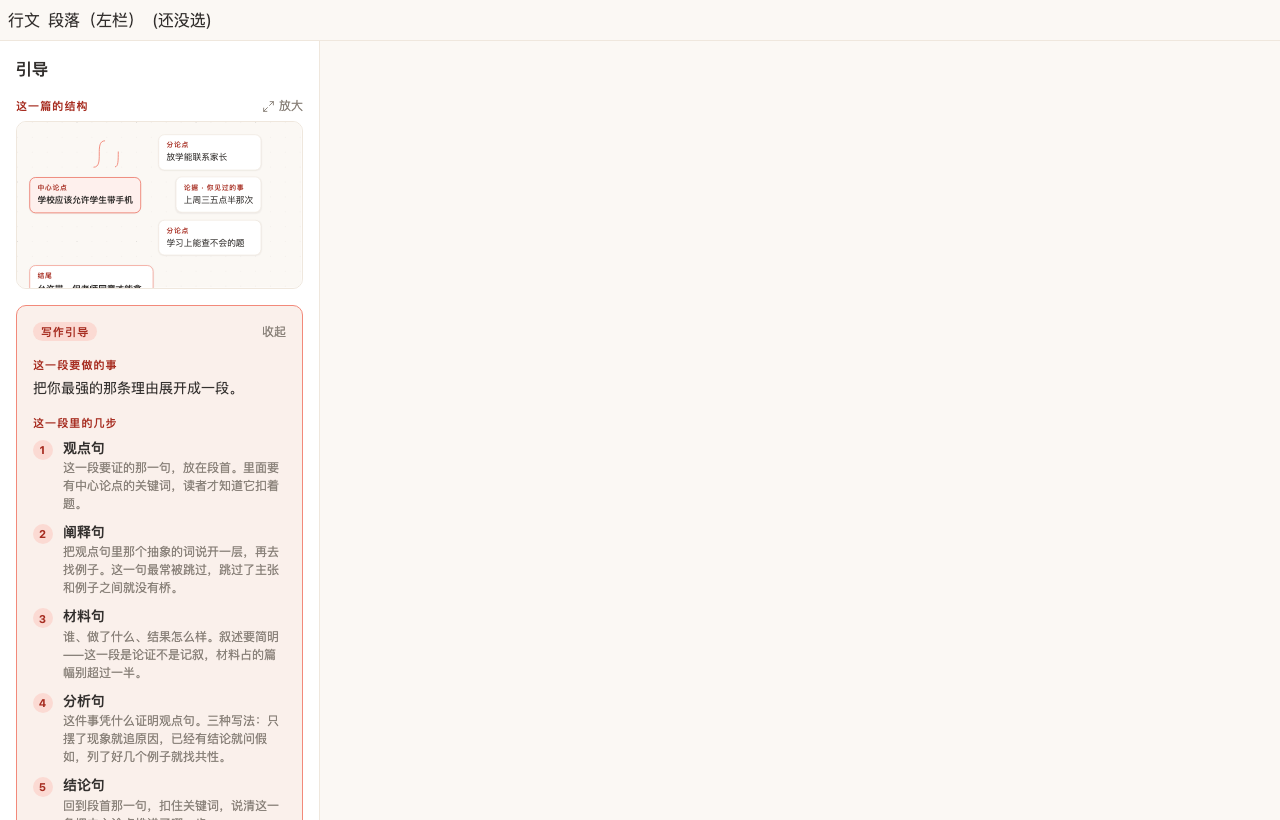
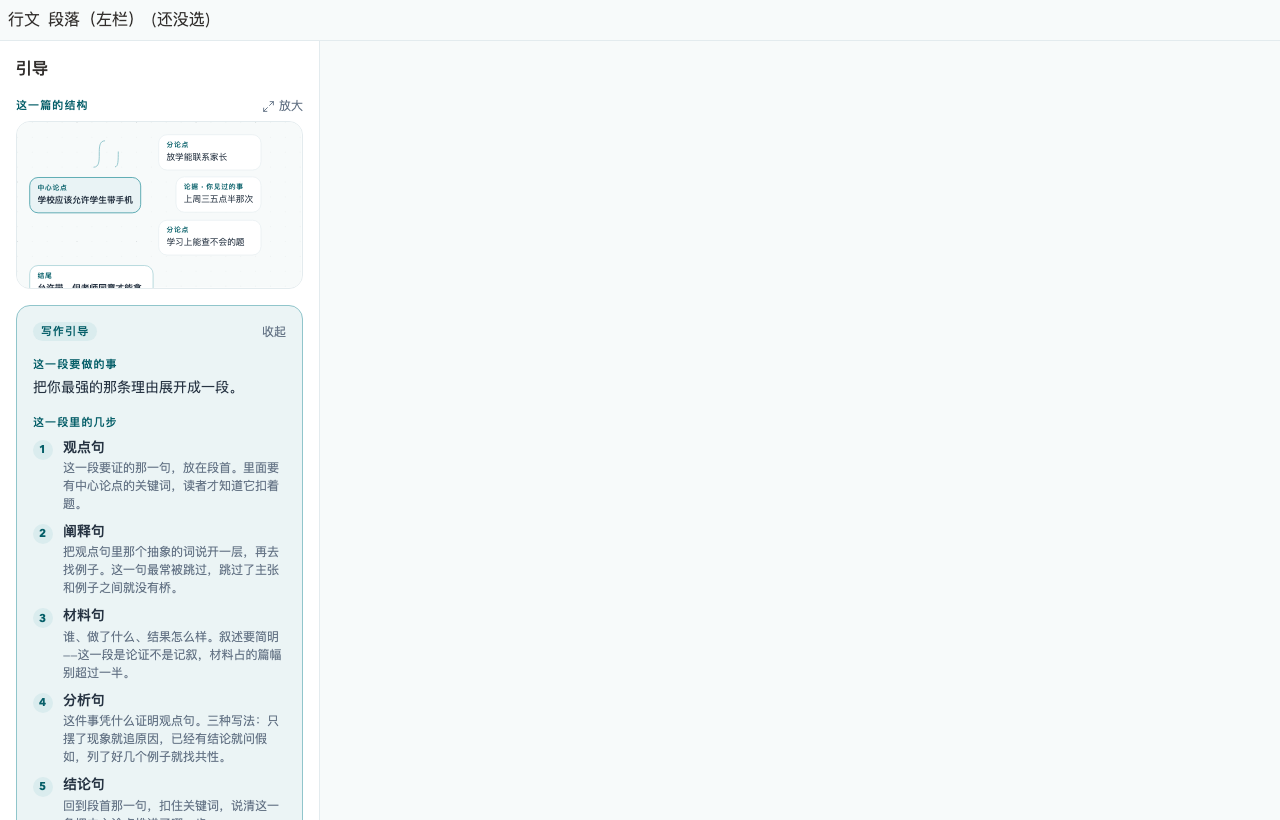
fix(lite-writing): 构思那一屏三栏并排之后的两处塌陷，在真浏览器里看出来的
给构思加上题目那一栏（意见 1）之后，那一屏第一次变成三栏。写了一个看图台
（planning.html / planning-harness.tsx）在真浏览器里看，两处塌陷：

## 「你的思路」竖着排了

那块浮在画布上的标签和旁边一句很长的提示同在一个 flex 行里。挤到装不下四个
字的时候，浏览器一个字一个字往下折 —— 屏幕上是竖着的「你 的 思 路」。
加了左边那一栏之后，这一块正好窄到触发它。`shrink-0 whitespace-nowrap`。

🚨 jsdom 测不出这一类：它量不出宽度，四个字在它眼里永远排得下。

## 那张图被挤到贴着右边缘

题目那一栏 280 → 240；对话和图那个分栏 44% → 48%。现在整张图连着深度 2 的
两张材料卡都在屏幕里，不用横向滚。折起题目那一栏之后更宽。

段落和成稿两页上少那 40px 看不出来；构思这一屏上，那 40px 是图的第四张卡。

## 看图台

`planning-harness` 只为一件事存在：**在真浏览器里看那三栏同时在屏幕上的
样子**。挤不挤、折完正文有没有变宽、图还剩多少地方 —— 这些是几何。
它假接口，不连后端、不要账号。三条用例：整道题在不在（钉题面的**末尾**，
截断时先没的就是它）、那一栏折得起来而且折完正文变宽、图上被摆错的那一条
她自己改得动。

顺带 `.shots/r4-guide-five-sentences.png` 重新截了一张：旧那张是 pro 的珊瑚红，
看图台补上 lite 的配色之后它才是学生真会看到的颜色。

diff --git a/apps/lite-web/e2e/harness/planning-harness.tsx b/apps/lite-web/e2e/harness/planning-harness.tsx
@@ -1,0 +1,144 @@
+import { useState } from "react";
+import { createRoot } from "react-dom/client";
+import { PlanningView } from "../../src/writings/PlanningView";
+import type { WritingOutlineItem } from "../../src/api/writingRoom";
+import type { LiteMessage } from "../../src/api/readingRoom";
+import type { Writing } from "../../src/api/writings";
+import "../../src/index.css";
+
+import "@/ui/themes/lite.css";
+import "../../src/learning/student-surfaces.css";
+import { LITE_ACCENT_PRESETS } from "@/ui/themes/lite";
+import type { CSSProperties } from "react";
+
+// 见 flow-harness.tsx 里那段：lite 的青色由 React 那一层作为内联样式给，
+// 光 import 一份 CSS 不够。不装上，看图台把每一屏都画成 pro 的珊瑚红。
+const LITE_ACCENT_STYLE = Object.fromEntries(
+  Object.entries(LITE_ACCENT_PRESETS[0]!.scale).map(([step, value]) => [`--mk-theme-accent-${step}`, value]),
+) as CSSProperties;
+
+/**
+ * 构思那一屏的看图台 —— 同事 2026-09-22 的意见 1 那一屏。
+ *
+ *	「选择题目进入写作后，无法看到完整的题目。想要看完整的题目还需要退出重新
+ *	  搜索，可能不利于学生**边看题目边构思**。」
+ *
+ * 2026-09-21 加的那一栏题目（PromptSidebar）只挂在段落和成稿两步上 ——
+ * 构思和行文各自在房间外壳之前 early-return，于是它们还挂着那行
+ * line-clamp-2 的小字。而「边看题目边构思」说的正是这一屏。
+ *
+ * 这个看图台只为一件事存在：**在真浏览器里看那一栏和对话、图三块同时在屏幕
+ * 上的样子**。三栏挤不挤、题目折起来之后正文有没有变宽、那张图还剩多少地方
+ * —— 这些是几何，jsdom 一个字都证明不了。
+ *
+ * 它假接口（照 flow-harness 的做法），所以不连后端、不要账号。
+ */
+
+const PROMPT =
+  "阅读下面的材料，根据要求写作。\n" +
+  "词语是表达思想情感的载体，也是展现社会生活变化的窗口。当前，世界之变、时代之变、" +
+  "历史之变正以前所未有的方式展开。青年是常为新的，在你的成长过程中，你对哪一个词语的" +
+  "理解发生了变化？这变化和你的成长有什么关系？\n" +
+  "请结合自身经历，写一篇文章。要求：选准角度，确定立意，明确文体，自拟标题；" +
+  "不要套作，不得抄袭；不少于800字。";
+
+const WRITING = {
+  id: "w1",
+  title: "成功这个词",
+  lang: "zh",
+  stage: "outline",
+  targetWords: 800,
+  structureKey: "",
+  setupAt: "2026-09-22T00:00:00Z",
+  origin: "here",
+  assignedPrompt: PROMPT,
+  status: "active",
+  createdAt: "2026-09-22T00:00:00Z",
+  updatedAt: "2026-09-22T00:00:00Z",
+  lastActivityAt: "2026-09-22T00:00:00Z",
+  finishedAt: null,
+  revisingAt: null,
+} as unknown as Writing;
+
+// 同事截图里那张图，照着摆 —— 包括被摆错的那一条（意见 3）。
+const SEED: WritingOutlineItem[] = [
+  { id: "t", text: "我想写「成功」这个词，我对它的理解发生了变化", role: "", kind: "thesis", depth: 0, position: 0 },
+  { id: "p1", text: "成功的定义太窄，成功的人就太少", role: "", kind: "point", depth: 1, position: 1 },
+  { id: "p2", text: "人人有自己的贡献，平凡尽责也是成功", role: "", kind: "point", depth: 1, position: 2 },
+  { id: "r1", text: "外卖员辛勤付出让人按时吃上饭，是成功", role: "", kind: "reference", depth: 2, position: 3 },
+  { id: "r2", text: "黑心商家哪怕赚很多钱，也是失败", role: "", kind: "reference", depth: 2, position: 4 },
+];
+
+const MESSAGES: LiteMessage[] = [
+  {
+    seq: 1,
+    role: "ai",
+    content:
+      "老师布置的这篇文章，是让你从成长经历里选一个词，讲讲你对它的理解怎么变了。我们先一起把要说的想清楚、排好顺序，再动笔。你最先想到的是哪个词？",
+    createdAt: "",
+  },
+  { seq: 2, role: "student", content: "我想写「成功」。小时候觉得成功就是考第一。", createdAt: "" },
+  {
+    seq: 3,
+    role: "ai",
+    content: "好，那这篇要让读者相信的是什么？用一句话说说你现在怎么看「成功」。",
+    createdAt: "",
+  },
+];
+
+// 假接口：这一屏只会打开场和回合两条路，以及保存提纲。
+const realFetch = window.fetch;
+window.fetch = (async (input: RequestInfo | URL, init?: RequestInit) => {
+  const url = String(typeof input === "string" ? input : input instanceof URL ? input.href : input.url);
+  if (url.includes("/opening")) {
+    return new Response(JSON.stringify({ reply: "" }), {
+      status: 200,
+      headers: { "content-type": "application/json" },
+    });
+  }
+  if (url.includes("/outline")) {
+    const body = JSON.parse(String(init?.body ?? "{}"));
+    (window as unknown as { lastPut?: unknown }).lastPut = body;
+    // 回一份按 kind 重算过深度的清单，和服务端一样。
+    const depths: Record<string, number> = {
+      thesis: 0, opening: 0, closing: 0,
+      point: 1, counter: 1, scene: 1, turn: 1, feeling: 1,
+      evidence: 2, reference: 2, reasoning: 2, rebuttal: 2, gap: 2, detail: 2,
+    };
+    const outline = (body.outline as { text: string; kind: string; source?: string }[]).map((n, i) => ({
+      id: `n${i}`,
+      text: n.text,
+      role: "",
+      kind: n.kind,
+      depth: depths[n.kind] ?? 1,
+      position: i,
+      source: n.source ?? "",
+    }));
+    return new Response(JSON.stringify({ outline }), {
+      status: 200,
+      headers: { "content-type": "application/json" },
+    });
+  }
+  return realFetch(input, init);
+}) as typeof window.fetch;
+
+function Harness() {
+  const [outline, setOutline] = useState(SEED);
+  const [messages, setMessages] = useState(MESSAGES);
+
+  return (
+    <div className="lite-student" style={{ ...LITE_ACCENT_STYLE, height: "100vh", background: "var(--mk-paper)" }}>
+      <PlanningView
+        writing={WRITING}
+        messages={messages}
+        outline={outline}
+        onMessages={setMessages}
+        onOutline={setOutline}
+        onDone={() => {}}
+        onBack={() => {}}
+      />
+    </div>
+  );
+}
+
+createRoot(document.getElementById("root")!).render(<Harness />);

diff --git a/apps/lite-web/e2e/harness/planning-harness.spec.ts b/apps/lite-web/e2e/harness/planning-harness.spec.ts
@@ -1,0 +1,74 @@
+import { test, expect } from "@playwright/test";
+
+/**
+ * 构思那一屏 —— 同事 2026-09-22 的意见 1。
+ *
+ *	「选择题目进入写作后，无法看到完整的题目。想要看完整的题目还需要退出重新
+ *	  搜索，可能不利于学生**边看题目边构思**。」
+ *
+ * 2026-09-21 加的那一栏题目只挂在段落和成稿两步上 —— 构思和行文各自在房间
+ * 外壳之前 early-return，于是它们还挂着那行 line-clamp-2 的小字，全文只在
+ * title 属性里。而「边看题目边构思」说的正是这一屏。
+ *
+ * 三栏挤不挤、折起来之后正文有没有变宽、那张图还剩多少地方 —— 这些是**几何**，
+ * jsdom 一个字都证明不了（AGENTS.md：UI 用真浏览器看）。
+ *
+ * 跑法（先起看图台）：
+ *   npx vite --config e2e/harness/vite.config.ts
+ *   npx playwright test e2e/harness/planning-harness.spec.ts --config e2e/harness/playwright.config.ts
+ */
+
+const OUT = "e2e/harness/.shots";
+
+test.beforeEach(async ({ page }) => {
+  await page.goto("/planning.html");
+});
+
+test("🚨 构思的时候，整道题和对话、图同时在屏幕上", async ({ page }) => {
+  const rail = page.getByRole("complementary", { name: "题目" });
+  await expect(rail).toBeVisible({ timeout: 20_000 });
+
+  // 整道题都在，不是两行小字加一个 title 属性。
+  // 钉的是**题面的末尾**：截断的时候先没的就是它。
+  await expect(rail).toContainText("请结合自身经历，写一篇文章");
+  await expect(rail).toContainText("不少于800字");
+  // 目标字数也在这一栏里。
+  await expect(rail).toContainText("目标字数 800");
+
+  // 对话和图同时在屏幕上 —— 三栏，不是题目挤掉其中一个。
+  await expect(page.getByText("写作构思")).toBeVisible();
+  await expect(page.getByText("你的思路")).toBeVisible();
+  await page.screenshot({ path: `${OUT}/r5-04-planning.png`, fullPage: true });
+});
+
+test("题目那一栏折得起来，折完正文变宽", async ({ page }) => {
+  const rail = page.getByRole("complementary", { name: "题目" });
+  await expect(rail).toBeVisible({ timeout: 20_000 });
+  const wide = (await rail.boundingBox())!.width;
+
+  await page.getByTitle("折起题目").click();
+  await expect(page.getByTitle("展开题目")).toBeVisible();
+  const narrow = (await rail.boundingBox())!.width;
+  expect(narrow, "折起来之后那一栏该窄下去").toBeLessThan(wide);
+  // 折起来之后它还说得出自己是什么。
+  await expect(rail).toContainText("题目");
+  await page.screenshot({ path: `${OUT}/r5-05-planning-folded.png`, fullPage: true });
+
+  await page.getByTitle("展开题目").click();
+  await expect(page.getByTitle("折起题目")).toBeVisible();
+});
+
+test("🚨 图上那条被摆错的，她自己改得动（意见 3）", async ({ page }) => {
+  // 「黑心商家哪怕赚很多钱，也是失败」现在摆在「论据 · 你找来的材料」里。
+  const label = page.getByRole("button", { name: "论据 · 你找来的材料", exact: true }).last();
+  await expect(label).toBeVisible({ timeout: 20_000 });
+  await label.click();
+
+  const menu = page.getByRole("menu");
+  await expect(menu).toBeVisible();
+  await menu.getByRole("menuitem", { name: /反方观点/ }).click();
+
+  // 改完当场看得见。
+  await expect(page.getByRole("button", { name: "反方观点", exact: true })).toBeVisible();
+  await page.screenshot({ path: `${OUT}/r5-06-planning-rekind.png`, fullPage: true });
+});

diff --git a/apps/lite-web/src/writings/PlanningView.tsx b/apps/lite-web/src/writings/PlanningView.tsx
@@ -320,7 +320,7 @@ export function PlanningView({
           那这两件东西就得同时在屏幕上。 */}
       <div className="flex min-h-0 flex-1">
         <PromptSidebar writing={writing} />
-        <div className={hasMap ? "grid min-h-0 min-w-0 flex-1 grid-cols-1 lg:grid-cols-[minmax(0,1fr)_minmax(440px,44%)]" : "flex min-h-0 min-w-0 flex-1 justify-center"}>
+        <div className={hasMap ? "grid min-h-0 min-w-0 flex-1 grid-cols-1 lg:grid-cols-[minmax(0,1fr)_minmax(440px,48%)]" : "flex min-h-0 min-w-0 flex-1 justify-center"}>
         <div className={hasMap ? "flex min-h-0 flex-col" : "flex min-h-0 w-full max-w-[720px] flex-col"}>
           <div className="px-5 pt-4"><StudentCoachHeading label="写作构思" /></div>
           <ChatLog messages={chatMessages} thinking={sending || opening} className="mk-scroll min-h-0 flex-1 px-5 py-4" />
@@ -388,14 +388,18 @@ export function PlanningView({
                 band would cut the drawing surface in two, and the point of
                 this panel is that it reads as one continuous sheet. */}
             <div className="pointer-events-none absolute inset-x-0 top-0 z-10 flex items-center justify-between px-4 py-2">
+              {/* 🚨 shrink-0 + nowrap：旁边那句提示很长，而这一行是 flex。
+                  不写死它，被挤到装不下「你的思路」四个字的时候，浏览器会
+                  一个字一个字往下折 —— 2026-09-22 加了左边那一栏题目之后，
+                  这一块正好窄到触发它，看图台上看见的就是竖着排的四个字。 */}
               <span
-                className="rounded-mk-full px-2 py-0.5 text-mk-label text-mk-faint"
+                className="shrink-0 whitespace-nowrap rounded-mk-full px-2 py-0.5 text-mk-label text-mk-faint"
                 style={{ background: "color-mix(in srgb, var(--mk-paper) 88%, transparent)" }}
               >
                 你的思路
               </span>
               <span
-                className="rounded-mk-full px-2 py-0.5 text-mk-small text-mk-faint"
+                className="min-w-0 rounded-mk-full px-2 py-0.5 text-mk-small text-mk-faint"
                 style={{ background: "color-mix(in srgb, var(--mk-paper) 88%, transparent)" }}
               >
                 {/* 🚨 原来只说了改和删，没说**怎么加** —— 而这张图长什么样

diff --git a/apps/lite-web/src/writings/PromptSidebar.tsx b/apps/lite-web/src/writings/PromptSidebar.tsx
@@ -88,7 +88,10 @@ export function PromptSidebar({ writing }: { writing: Writing }) {
   return (
     <aside
       aria-label="题目"
-      className="mk-scroll flex w-[280px] shrink-0 flex-col overflow-y-auto border-r border-mk-border bg-mk-surface"
+      // 240 而不是 280：构思那一屏上它要和对话、思维导图并排
+      //（2026-09-22 起三栏），而那张图本来就不宽。段落和成稿两页上
+      // 少 40px 看不出来，构思那一屏上这 40px 是图的第四张卡。
+      className="mk-scroll flex w-[240px] shrink-0 flex-col overflow-y-auto border-r border-mk-border bg-mk-surface"
     >
       <div className="flex items-center justify-between gap-2 border-b border-mk-border px-3 py-2">
         <span className="text-mk-caption text-mk-muted">题目</span>

diff --git a/apps/lite-web/e2e/harness/planning.html b/apps/lite-web/e2e/harness/planning.html
@@ -1,0 +1,11 @@
+<!doctype html>
+<html lang="zh">
+  <head>
+    <meta charset="utf-8" />
+    <title>构思看图台</title>
+  </head>
+  <body>
+    <div id="root"></div>
+    <script type="module" src="./planning-harness.tsx"></script>
+  </body>
+</html>
